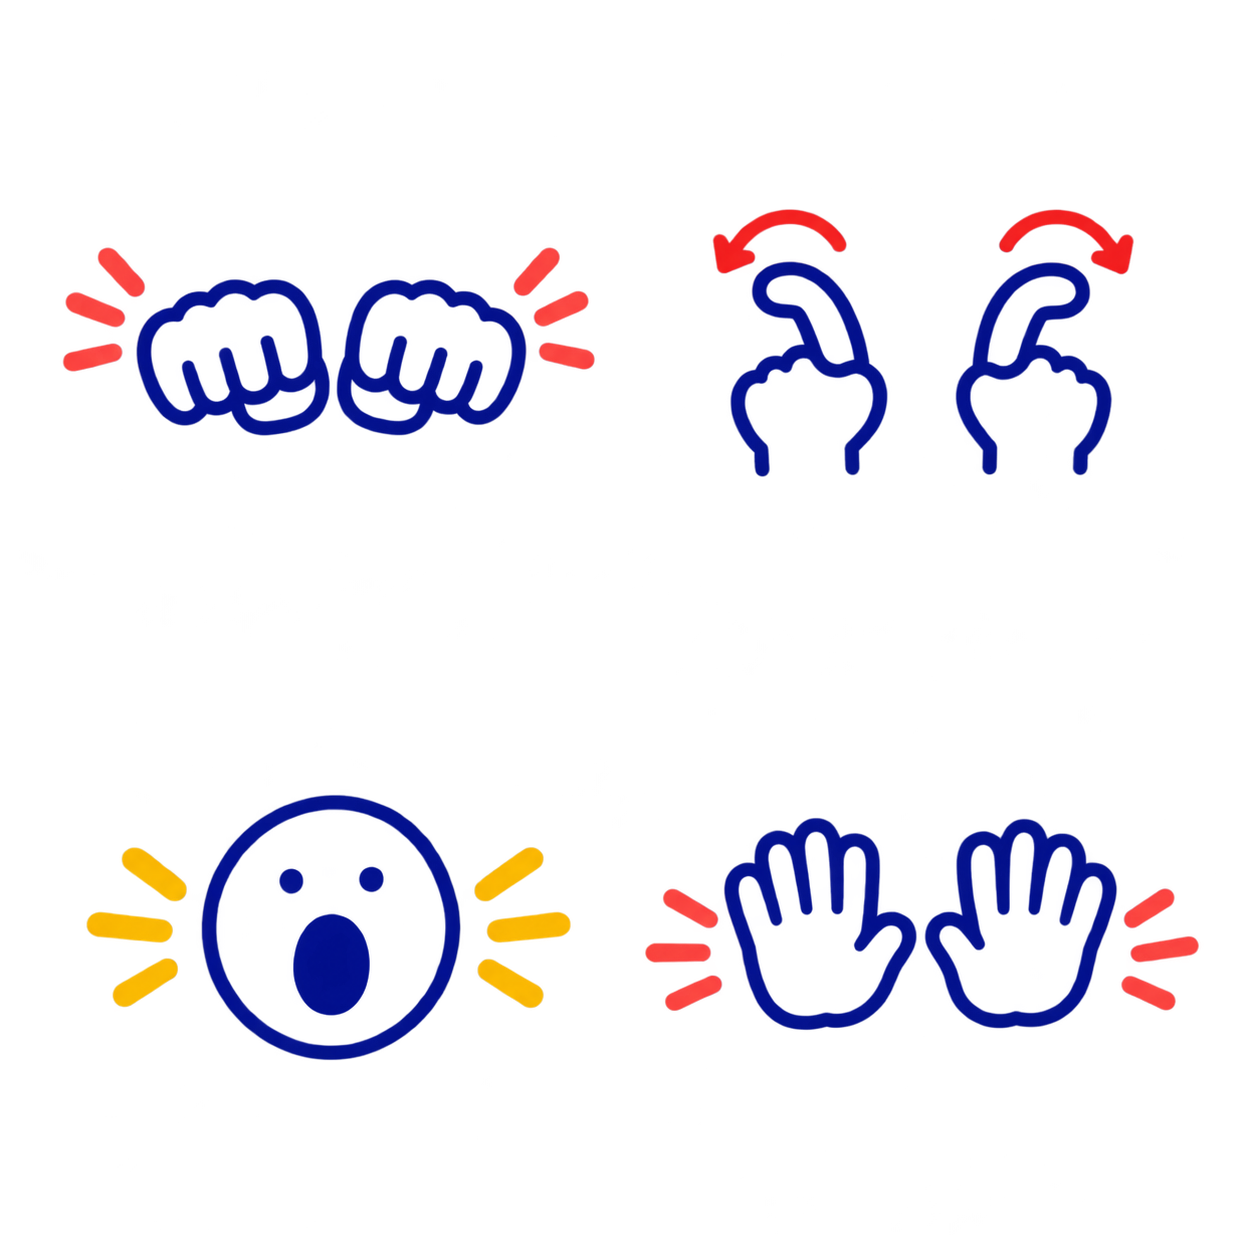
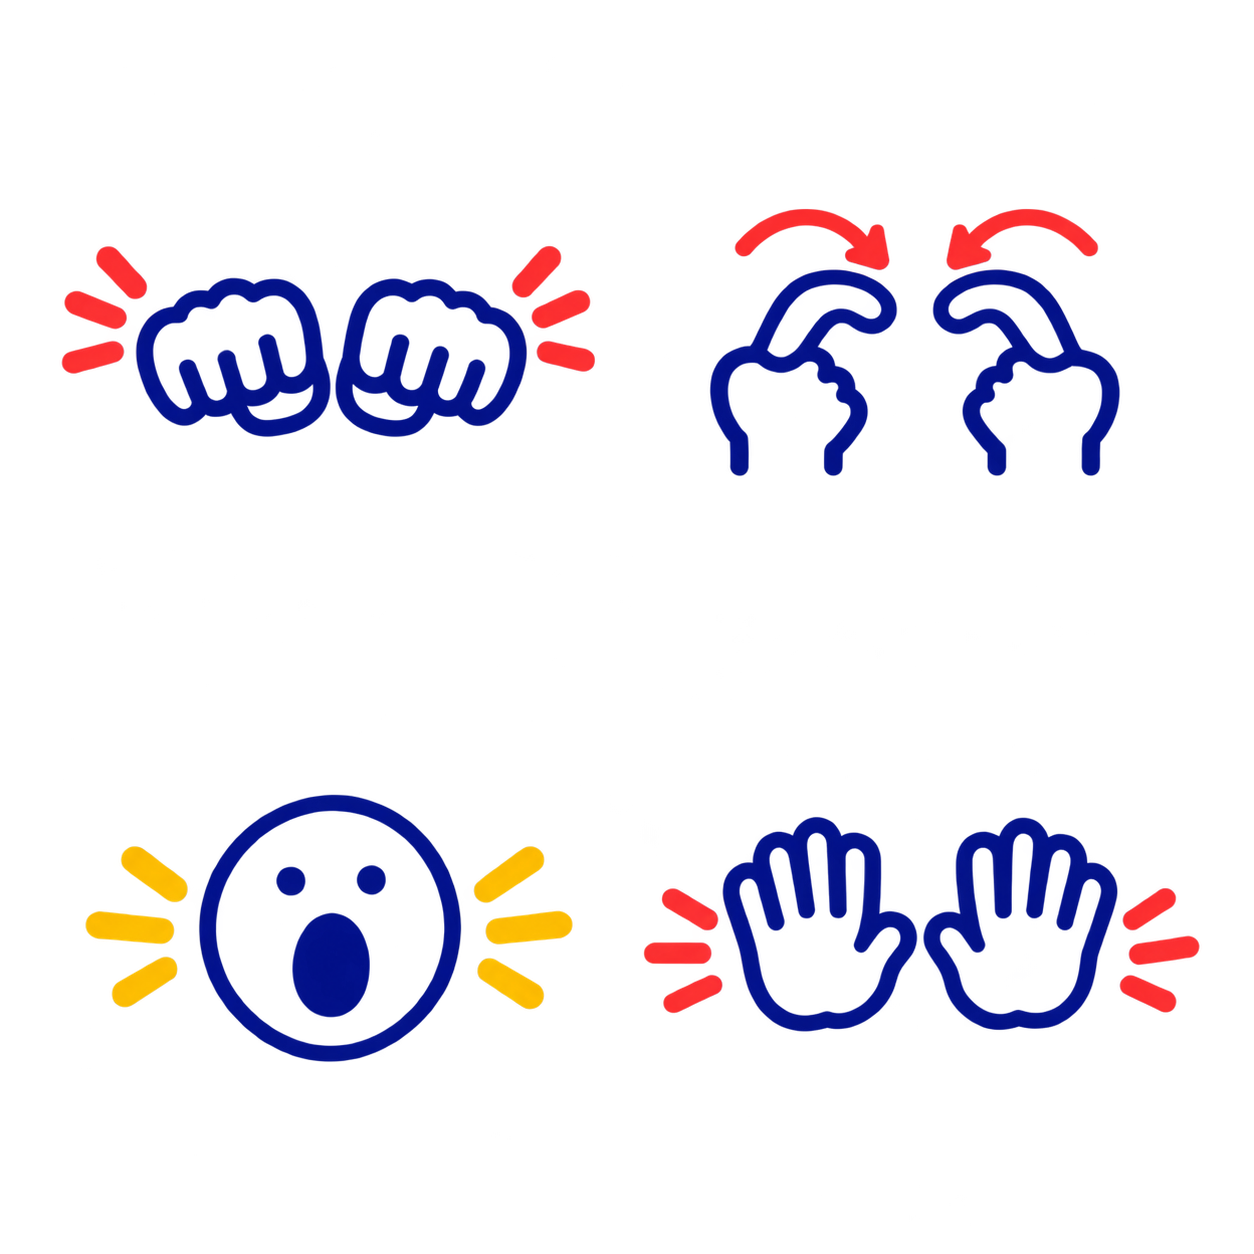
Strengthen controlled shaking, swap tickle hands and update failure copy

diff --git a/gouache-game.css b/gouache-game.css
@@ -2,7 +2,7 @@
 .in-game .shell { width: min(100%, calc((100dvh - 4px) * 16 / 9)); }
 .game-room { height: 100%; --room-image: url('gouache-room-v2.png'); --shelf-forward: 0%; }
 .room-backdrop { --room-image: url('gouache-room-v2.png'); }
-.quake-bed, .victory-bed { inset: 45% auto auto 18%; width: 38%; height: 48%; clip-path: none; transform-origin: 50% 90%; --jolt: .65cqw; --tilt: .6deg; }
+.quake-bed, .victory-bed { inset: 45% auto auto 18%; width: 38%; height: 48%; clip-path: none; transform-origin: 50% 90%; --jolt: 1cqw; --tilt: 1.25deg; --hop: .6cqw; }
 .quake-bed { --room-image: url('gouache-bed.png'); }
 .victory-bed { --room-image: url('gouache-empty.png'); }
 .face-art { mask-image: radial-gradient(ellipse 13% 16% at 32% 28%, black 88%, transparent 100%); }
@@ -10,8 +10,8 @@
 .sleep-face[data-expression='near-awake'] { --room-image: url('gouache-awake.png'); }
 .tickle-face { --room-image: url('gouache-tickle.png'); }
 .failure-face { --room-image: url('gouache-failure.png'); }
-.quake-shelf { inset: 39% auto auto 70%; width: 29%; height: 36%; clip-path: none; translate: none; --room-image: url('gouache-shelf.png'); --jolt: -.5cqw; --tilt: -.6deg; transform-origin: 50% 95%; }
-.quake-table { inset: 65% auto auto 49%; width: 36%; height: 34%; mask-image: none; visibility: visible; --room-image: url('gouache-table.png'); }
+.quake-shelf { inset: 39% auto auto 70%; width: 29%; height: 36%; clip-path: none; translate: none; --room-image: url('gouache-shelf.png'); --jolt: -.85cqw; --tilt: -1.6deg; --hop: .38cqw; transform-origin: 50% 95%; }
+.quake-table { inset: 65% auto auto 49%; width: 36%; height: 34%; mask-image: none; visibility: visible; --room-image: url('gouache-table.png'); --jolt: .9cqw; --tilt: 1.1deg; --hop: .38cqw; }
 .quake-floor, .shelf-shadow { display: none; }
 .room-clock { left: 8%; top: 64.6%; width: 8%; height: 7.8%; font-size: 2.8cqw; font-weight: 900; color: #dc4c2c; background: transparent; transform: skewY(-13deg); text-shadow: none; -webkit-text-stroke: .045cqw currentColor; }
 .room-sleep span { margin: 0; }
@@ -29,7 +29,7 @@
 .is-tickled .quake-bed::after { animation: tickle-grin 1150ms ease-in-out both; }
 .victory-pose, .round-won .victory-pose { left: 30%; bottom: 7%; width: 26%; height: 64%; }
 .start-preview-room { background-image: url('gouache-room-v2.png'); aspect-ratio: 2.04; }
-.attack-buttons .gesture-art { background-image: url('gouache-gestures.png'); background-repeat: no-repeat; background-size: 200% 200%; width: 4.4cqw; height: 4.4cqw; margin: 0; }
+.attack-buttons .gesture-art { background-image: url('gouache-gestures.png?v=2'); background-repeat: no-repeat; background-size: 200% 200%; width: 4.4cqw; height: 4.4cqw; margin: 0; }
 .attack-buttons .gesture-art-shake { background-position: 0 0; }
 .attack-buttons .gesture-art-tickle { background-position: 100% 0; }
 .attack-buttons .gesture-art-noise { background-position: 0 100%; }
@@ -43,3 +43,21 @@
 .attack-instruction { margin-top: .3cqw; }
 @media (max-width: 900px) { .attack-buttons .gesture-art { width: 60px; height: 60px; } .game-controls progress { height: 24px; } .game-controls .sleep-heading strong { font-size: 22px; } }
 @media (prefers-reduced-motion: reduce) { .is-tickled .quake-bed::after { animation: none; opacity: 1; } }
+
+/* Fast repeated jolts stay within each furniture group's available space. */
+.quake-table .room-art { transform-origin: 50% 75%; }
+.is-shaking .quake-object, .is-shaking .quake-layer .room-art { animation: gouache-quake 900ms linear both; }
+.is-shaking .shake-lines span { animation-duration: 900ms; }
+@keyframes gouache-quake {
+  0%, 100% { transform: translate(0) rotate(0deg); }
+  7%, 23%, 39% { transform: translate(var(--jolt), calc(-1 * var(--hop))) rotate(var(--tilt)); }
+  15%, 31%, 47% { transform: translate(calc(-1 * var(--jolt)), .15cqw) rotate(calc(-1 * var(--tilt))); }
+  56% { transform: translate(calc(.75 * var(--jolt)), calc(-.65 * var(--hop))) rotate(calc(.75 * var(--tilt))); }
+  65% { transform: translate(calc(-.6 * var(--jolt)), .1cqw) rotate(calc(-.6 * var(--tilt))); }
+  74% { transform: translate(calc(.42 * var(--jolt)), calc(-.3 * var(--hop))) rotate(calc(.4 * var(--tilt))); }
+  83% { transform: translate(calc(-.26 * var(--jolt)), 0) rotate(calc(-.25 * var(--tilt))); }
+  92% { transform: translate(calc(.12 * var(--jolt)), 0) rotate(calc(.1 * var(--tilt))); }
+}
+@media (prefers-reduced-motion: reduce) {
+  .is-shaking .quake-object, .is-shaking .quake-layer .room-art { animation: none; }
+}

diff --git a/index.html b/index.html
@@ -11,8 +11,8 @@
   <link rel="stylesheet" href="game-screen.css?v=20261113-analog-audio1">
   <link rel="stylesheet" href="result-scene.css?v=20261113-analog-audio1">
   <link rel="stylesheet" href="analog-ui.css?v=gouache-fixes-1">
-  <link rel="stylesheet" href="gouache-game.css?v=4">
-  <link rel="preload" href="start-gouache.png?v=3" as="image">
+  <link rel="stylesheet" href="gouache-game.css?v=5">
+  <link rel="preload" href="start-gouache.png?v=4" as="image">
   <link rel="preload" href="gouache-room-v2.png" as="image">
   <link rel="preload" href="gouache-bed.png" as="image">
   <link rel="preload" href="gouache-shallow.png" as="image">
@@ -29,14 +29,14 @@
   <script src="wind-motion.js?v=20261113-analog-audio1" defer></script>
   <script src="hand-motion.js?v=20261113-analog-audio1" defer></script>
   <script src="face-motion.js?v=20261113-analog-audio1" defer></script>
-  <script src="game-audio.js?v=on-the-other-side-2" defer></script>
-  <script src="script.js?v=gouache-start-2" defer></script>
+  <script src="game-audio.js?v=on-the-other-side-3" defer></script>
+  <script src="script.js?v=gouache-effects-3" defer></script>
 </head>
 <body class="on-start">
   <div class="shell">
     <main>
       <section class="start-screen" id="start-screen" aria-labelledby="game-title">
-        <img class="start-illustration" src="start-gouache.png?v=3" width="1672" height="941" alt="" aria-hidden="true">
+        <img class="start-illustration" src="start-gouache.png?v=4" width="1672" height="941" alt="" aria-hidden="true">
         <div class="start-hero">
           <h1 id="game-title">일어나,<br><span>출근해야지</span></h1>
           <p class="intro">30초 안에 잠든 직장인을 깨워 주세요!</p>

diff --git a/game-audio.js b/game-audio.js
@@ -52,11 +52,12 @@ function createGameAudio() {
     context.resume().catch(error => console.warn('소리를 다시 켜 주세요.', error));
   }
 
-  function source(buffer, volume, loop = false) {
+  function source(buffer, volume, loop = false, playbackRate = 1) {
     const node = context.createBufferSource();
     const gain = context.createGain();
     node.buffer = buffer;
     node.loop = loop;
+    node.playbackRate.value = playbackRate;
     gain.gain.value = volume;
     node.connect(gain).connect(master);
     sources.add(node);
@@ -73,7 +74,7 @@ function createGameAudio() {
     if (buffer && request === generation && wantsMusic) {
       music = source(buffer, 0.25, true);
       // 같은 음량 보정을 거친 째깍 소리는 음악의 절반보다 작은 게인으로 겹칩니다.
-      if (ticking) source(ticking, 0.12, true);
+      if (ticking) source(ticking, 0.12, true, 1.5);
     }
   }
 

diff --git a/script.js b/script.js
@@ -244,6 +244,7 @@ function showAttack(gestureId) {
     // 다른 공격에서 넘어와도 흔들림 애니메이션을 처음부터 재생합니다.
     void gameRoom.offsetWidth;
     gameRoom.classList.add("is-shaking");
+    duration = 940;
   } else if (gestureId === "tickle") {
     void gameRoom.offsetWidth;
     gameRoom.classList.add("is-tickled");
@@ -273,7 +274,7 @@ function finishRound(won) {
   title.textContent = won ? "기상 성공!" : "무단 결근!";
   byId("result-stamp").textContent = won ? "✦" : "Zz";
   byId("result-eyebrow").textContent = won ? "오늘의 기상 미션 완료" : "앗, 벌써 오전 8시";
-  byId("result-message").textContent = won ? "오늘도 출근할게요" : "이번 달은 …";
+  byId("result-message").textContent = won ? "오늘도 출근할게요" : "오늘은 못가겠어요~";
   resultScreen.hidden = false;
   title.focus({ preventScroll: true });
 }

diff --git a/README.md b/README.md
@@ -106,5 +106,11 @@ Pages 배포에서 이전 UI가 캐시에 남지 않도록 `index.html`의 CSS·
 
 - 숫자를 2.3cqw에서 2.8cqw로 키우고 시작 제목 그림의 대표 주홍색 `#dc4c2c`로 맞췄습니다.
 - 현재 BGM `audio/on-the-other-side.mp3`는 사용자가 제공한 `최종작품자료/bgm/On the Other Side - Bill Douglas.mp3`를 그대로 복사했습니다.
-- `audio/clock-ticking.wav`는 짧게 감쇠하는 음과 잡음을 합성한 초당 4회 째깍 루프입니다. 음악과 별도로 겹쳐 재생하며 음량 보정 후 게인은 BGM 0.25, 째깍 0.12로 설정했습니다. 공격·승패 효과음 파일과 음량은 유지했습니다.
+- `audio/clock-ticking.wav`는 짧게 감쇠하는 음과 잡음을 합성한 초당 4회 원본을 1.5배속으로 재생해 초당 6회 들리는 째깍 루프입니다. 음악과 별도로 겹쳐 재생하며 음량 보정 후 게인은 BGM 0.25, 째깍 0.12로 설정했습니다. 공격·승패 효과음 파일과 음량은 유지했습니다.
 - 두 루프는 게임 종료·다시 시작·화면 이동 때 함께 멈추고 SOUND OFF에 함께 반응합니다. 자동 검사는 동시 재생, 중복 방지, 음소거, 재시작, 로딩 중 종료를 확인합니다.
+
+### 간지럽히기 안내·실패 문구·흔들기 강화
+
+- 실패 안내 문구를 같은 결과 문단에 `오늘은 못가겠어요~`로 교체했습니다.
+- 내장 ImageGen으로 `start-gouache.png`와 투명 `gouache-gestures.png`의 간지럽히기 두 손 위치를 교환했습니다. 프롬프트: 다른 그림과 글자는 보존하고, 오른쪽 손을 왼쪽으로·왼쪽 손을 오른쪽으로 옮겨 검지가 서로 안쪽을 향하도록 수정.
+- 흔들림은 900ms 동안 여러 번 좌우 진동한 후 잦아듭니다. 침대·가구·탁자는 각각 이동폭과 기울기를 제한하고 같은 소품 묶음의 그림은 함께 움직입니다. 흔들림 종료 시간도 940ms로 맞췄으며 동작 줄이기 설정을 유지합니다.
